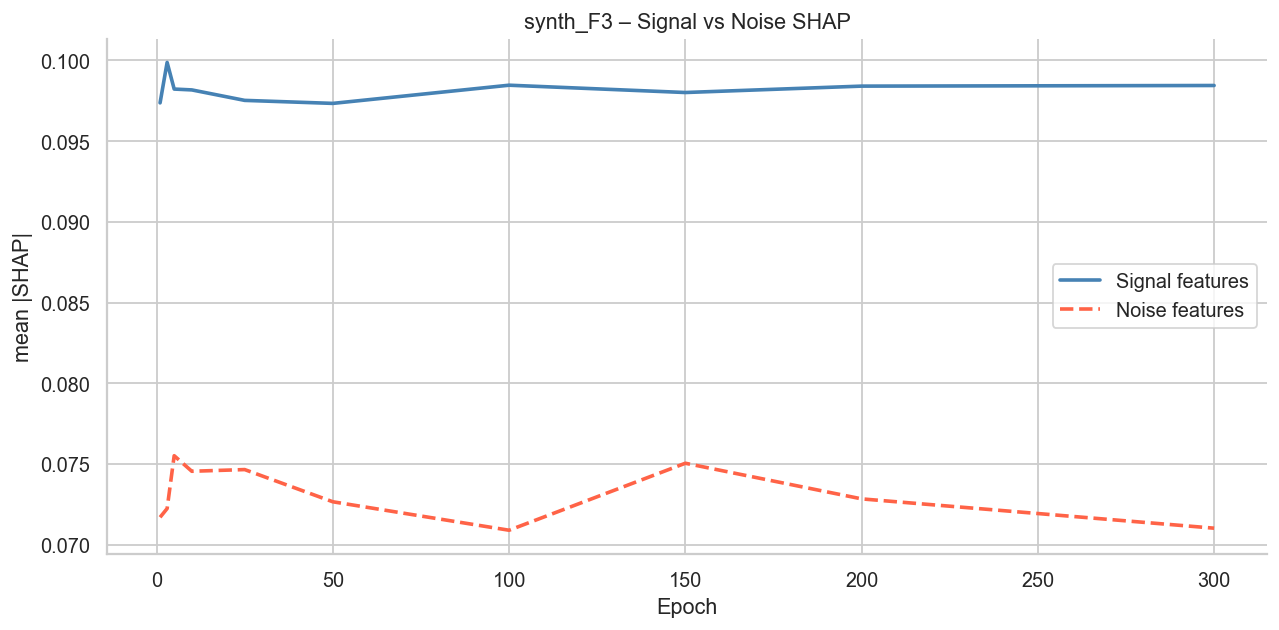
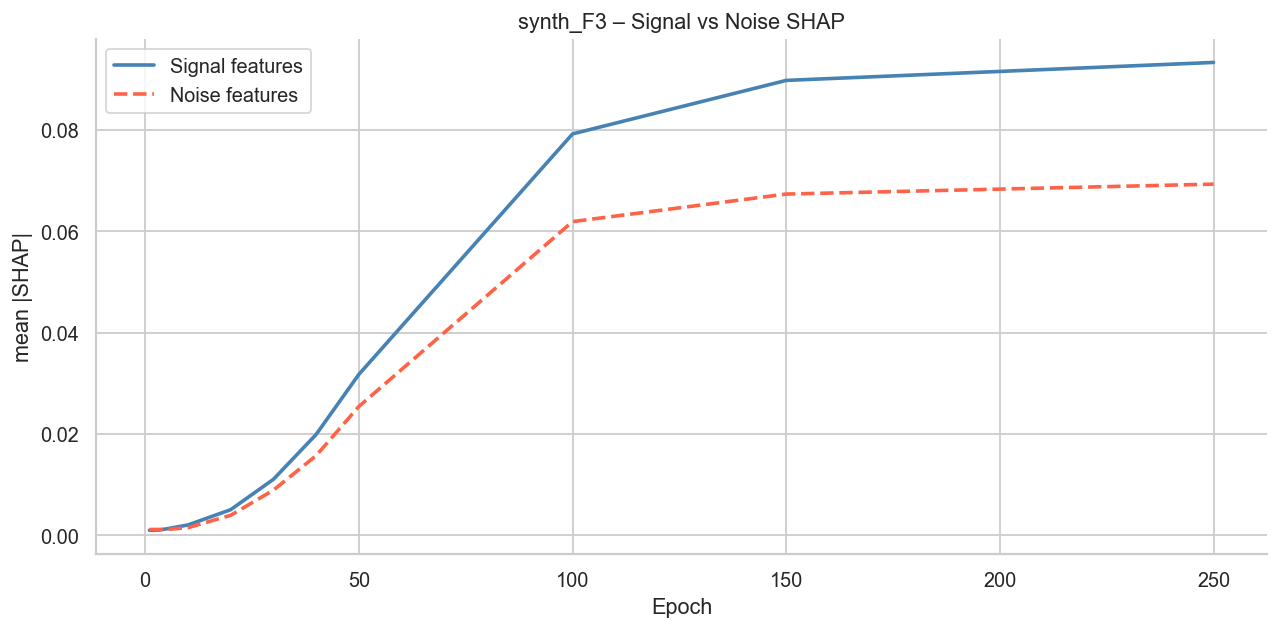
Adjust config for slow learning: reduce samples, lower LR, disable regularization, increase capacity

diff --git a/code_shap_analysis.py b/code_shap_analysis.py
@@ -4,6 +4,7 @@ import os
 import time
 import warnings
 from dataclasses import dataclass
+from itertools import combinations
 from pathlib import Path
 from typing import Optional
 
@@ -49,9 +50,9 @@ SYNTH_FUNC_IDX    = 3
 NUM_SAMPLES       = 1_500
 SEED              = 42
 
-SNAPSHOT_EPOCHS   = [1, 3, 5, 10, 25, 50, 100, 150, 200, 300]
-INTERACTION_EPOCHS = [10, 150, 300]
-TOTAL_EPOCHS      = 300
+SNAPSHOT_EPOCHS   = [1, 3, 5, 10, 20, 30, 40, 50, 100, 150, 250]
+INTERACTION_EPOCHS = [10, 25, 50]
+TOTAL_EPOCHS      = 250
 BATCH_SIZE        = 128
 LR                = 1e-4
 N_SHAP_BG         = 80    # KernelExplainer background rows
@@ -70,6 +71,7 @@ FEATURE_COLS:    list[str] = []
 SIGNAL_FEATURES: list[str] = []
 NOISE_FEATURES:  list[str] = []
 GT_PAIRS:        list[tuple[str, str]] = []
+CONTRAST_PAIRS:  list[tuple[str, str, str]] = []   # (f1, f2, label) where label ∈ {signal, cross, noise}
 
 _T0 = time.perf_counter()
 def _elapsed() -> str:
@@ -181,7 +183,7 @@ def _derive_feature_metadata(ground_truth: dict, n_features: int) -> None:
     Populate the module-level FEATURE_COLS, SIGNAL_FEATURES, NOISE_FEATURES,
     and GT_PAIRS from synth.py's ground_truth dict.
     """
-    global FEATURE_COLS, SIGNAL_FEATURES, NOISE_FEATURES, GT_PAIRS
+    global FEATURE_COLS, SIGNAL_FEATURES, NOISE_FEATURES, GT_PAIRS, CONTRAST_PAIRS
 
     FEATURE_COLS = [f"x{i}" for i in range(n_features)]
 
@@ -196,6 +198,25 @@ def _derive_feature_metadata(ground_truth: dict, n_features: int) -> None:
     # GT_PAIRS: take the pairwise ground-truth tuples (0-indexed ints → name strings)
     GT_PAIRS = [(FEATURE_COLS[a], FEATURE_COLS[b])
                 for (a, b) in ground_truth["pairwise"]]
+
+    # CONTRAST_PAIRS: GT (signal×signal) + signal×noise + noise×noise
+    # Each entry is (f1, f2, category_label)
+    CONTRAST_PAIRS = [(f1, f2, "signal") for f1, f2 in GT_PAIRS]
+
+    # Add up to 2 signal×noise cross pairs
+    cross_pairs = []
+    for sf in SIGNAL_FEATURES:
+        for nf in NOISE_FEATURES:
+            cross_pairs.append((sf, nf))
+            if len(cross_pairs) >= 2:
+                break
+        if len(cross_pairs) >= 2:
+            break
+    CONTRAST_PAIRS += [(f1, f2, "cross") for f1, f2 in cross_pairs]
+
+    # Add up to 2 noise×noise pairs
+    noise_combos = list(combinations(NOISE_FEATURES, 2))[:2]
+    CONTRAST_PAIRS += [(f1, f2, "noise") for f1, f2 in noise_combos]
 
 
 def load_synth_data(
@@ -611,53 +632,57 @@ def plot_interaction_proxy_heatmaps(
     print(f"  saved: {fname}")
 
 
-# ── 6f  Interaction evolution line plot (ground-truth pairs) ──────────────────
+# ── 6f  Interaction evolution line plot (contrast pairs) ─────────────────────
+_PAIR_STYLE = {
+    "signal": dict(color="#2ca02c", marker="o", linewidth=2.5, linestyle="-"),
+    "cross":  dict(color="#ff7f0e", marker="s", linewidth=2.0, linestyle="--"),
+    "noise":  dict(color="#d62728", marker="^", linewidth=2.0, linestyle=":"),
+}
+
 def plot_interaction_evolution(
     snaps: list[Snapshot],
     X_ex_raw: np.ndarray,
     model_label: str = "model",
 ) -> None:
     """
-    For each ground-truth pair, track the proxy interaction strength
-    across SHAP snapshot epochs (using |corr(SHAP_f1, X_f2)|).
-    Uses the same metric as compute_interaction_proxy.
+    Track interaction proxy |corr(SHAP_f1, X_f2)| across epochs for
+    three categories of feature pairs:
+      • signal (GT pairs)  – should spike early and stay high
+      • cross  (signal×noise) – should stay low, may creep up with overfitting
+      • noise  (noise×noise)  – should stay near zero, grows late if overfitting
+    All curves on one axis for a clear contrast.
     """
-    n_pairs = len(GT_PAIRS)
-    if n_pairs == 0:
-        print("  [warn] no GT_PAIRS defined, skipping interaction evolution.")
+    if not CONTRAST_PAIRS:
+        print("  [warn] no CONTRAST_PAIRS, skipping interaction evolution.")
         return
 
-    rows = int(np.ceil(n_pairs / 2))
-    cols = min(n_pairs, 2)
-    fig, axes = plt.subplots(rows, cols, figsize=(7 * cols, 4 * rows),
-                              sharex=True, squeeze=False)
+    shap_snaps = [s for s in snaps if s.shap_values is not None]
+    if not shap_snaps:
+        print("  [warn] no SHAP snapshots, skipping interaction evolution.")
+        return
 
-    for idx, (f1, f2) in enumerate(GT_PAIRS):
+    epochs = [s.epoch for s in shap_snaps]
+
+    fig, ax = plt.subplots(figsize=(12, 5))
+
+    for f1, f2, cat in CONTRAST_PAIRS:
         i1 = FEATURE_COLS.index(f1)
         i2 = FEATURE_COLS.index(f2)
 
-        shap_snaps = [s for s in snaps if s.shap_values is not None]
-        epochs  = [s.epoch for s in shap_snaps]
         proxies = []
         for s in shap_snaps:
-            c = np.corrcoef(s.shap_values[:, i1],
-                            X_ex_raw[:, i2])[0, 1]
+            c = np.corrcoef(s.shap_values[:, i1], X_ex_raw[:, i2])[0, 1]
             proxies.append(abs(c) if np.isfinite(c) else 0.0)
 
-        r, c = divmod(idx, cols)
-        ax = axes[r][c]
-        ax.plot(epochs, proxies, marker="o", linewidth=2)
-        ax.set_title(f"{f1} × {f2}")
-        ax.set_ylabel("|corr(SHAP_i, X_j)|")
-        ax.set_xlabel("Epoch")
-        ax.set_ylim(0, 1)
+        style = _PAIR_STYLE[cat]
+        ax.plot(epochs, proxies, label=f"{f1}×{f2} [{cat}]", **style)
 
-    # Hide unused axes
-    for idx in range(n_pairs, rows * cols):
-        r, c = divmod(idx, cols)
-        axes[r][c].set_visible(False)
-
-    fig.suptitle(f"{model_label} – Interaction proxy evolution", fontsize=13, y=1.02)
+    ax.set_xlabel("Epoch", fontsize=11)
+    ax.set_ylabel("|corr(SHAP_i, X_j)|  (interaction proxy)", fontsize=11)
+    ax.set_ylim(0, 1)
+    ax.legend(loc="upper left", fontsize=9, framealpha=0.9)
+    ax.set_title(f"{model_label} – Interaction proxy evolution  "
+                 "(signal vs cross vs noise pairs)", fontsize=13)
     plt.tight_layout()
     plt.savefig(OUTPUT_DIR / "06_interaction_evolution.png", dpi=DPI, bbox_inches="tight")
     plt.close(fig)
@@ -673,9 +698,11 @@ def plot_interaction_classification(
     model_label: str,
 ) -> None:
     """
-    For each GT pair: classify interaction type (crossover / modifier / symmetric)
-    using the LAST snapshot, then plot conditional 1-D PDPs (feature1 PDP
-    conditioned on feature2 low vs high).
+    For each *contrast* pair (signal, cross, noise): classify interaction type
+    (crossover / modifier / symmetric) using the LAST snapshot, then plot
+    SHAP scatter + conditional 1-D PDP.
+    Signal pairs should show clear interaction; noise pairs should show
+    false-positive interactions only when overfitting.
     """
     last_shap = next(
         (s for s in reversed(snaps) if s.shap_values is not None), None
@@ -684,18 +711,26 @@ def plot_interaction_classification(
         print("  [warn] no SHAP snapshots, skipping interaction classification.")
         return
 
+    pairs = CONTRAST_PAIRS if CONTRAST_PAIRS else [(f1, f2, "signal") for f1, f2 in GT_PAIRS]
+    n_pairs = len(pairs)
+    if n_pairs == 0:
+        print("  [warn] no pairs for interaction classification.")
+        return
+
     X_pdp = X_va_df.sample(min(PDP_SUBSAMPLE, len(X_va_df)), random_state=42)
 
-    n_pairs = len(GT_PAIRS)
-    fig, axes = plt.subplots(n_pairs, 2, figsize=(14, 5 * n_pairs))
+    fig, axes = plt.subplots(n_pairs, 2, figsize=(14, 5 * n_pairs),
+                              squeeze=False)
 
-    for row, (f1, f2) in enumerate(GT_PAIRS):
+    cat_colours = {"signal": "#2ca02c", "cross": "#ff7f0e", "noise": "#d62728"}
+
+    for row, (f1, f2, cat) in enumerate(pairs):
+        i1 = FEATURE_COLS.index(f1)
         i2 = FEATURE_COLS.index(f2)
         itype = classify_interaction(last_shap.shap_values, X_ex_raw, f1, f2)
 
         # ── left panel: SHAP scatter coloured by f2 ──────────────────────────
         ax_l = axes[row][0]
-        i1   = FEATURE_COLS.index(f1)
         sc   = ax_l.scatter(
             X_ex_raw[:, i1],
             last_shap.shap_values[:, i1],
@@ -705,7 +740,9 @@ def plot_interaction_classification(
         fig.colorbar(sc, ax=ax_l, label=f2)
         ax_l.axhline(0, color="k", lw=0.8, linestyle="--")
         ax_l.set_xlabel(f1); ax_l.set_ylabel(f"SHAP({f1})")
-        ax_l.set_title(f"[{itype.upper()}]  {f1} (colour = {f2})")
+        badge = cat.upper()
+        ax_l.set_title(f"[{badge} · {itype.upper()}]  {f1} (colour = {f2})",
+                       color=cat_colours.get(cat, "k"))
 
         # ── right panel: conditioned 1-D PDP ─────────────────────────────────
         ax_r   = axes[row][1]
@@ -715,9 +752,6 @@ def plot_interaction_classification(
 
         f1_idx = FEATURE_COLS.index(f1)
 
-        # Build a shared grid from the FULL X_pdp so both curves span
-        # the same x-axis range (fixes missing blue line when the low
-        # subset has a narrower range than the high subset).
         full_col = X_pdp.iloc[:, f1_idx].values
         shared_grid = np.linspace(
             np.percentile(full_col, 2),
@@ -730,23 +764,23 @@ def plot_interaction_classification(
             (X_high, "tomato",    f"{f2} high"),
         ]:
             if len(subset) > 10:
-                # Evaluate model on shared grid, varying f1 only
-                tile = np.tile(subset.values, (len(shared_grid), 1, 1))  # (G, N, F)
+                tile = np.tile(subset.values, (len(shared_grid), 1, 1))
                 tile[:, :, f1_idx] = shared_grid[:, None]
                 G, N, F = tile.shape
                 flat = tile.reshape(G * N, F)
                 proba = wrapper.predict_proba(flat)[:, 1].reshape(G, N)
-                pdp_vals = proba.mean(axis=1)          # average over N
+                pdp_vals = proba.mean(axis=1)
                 ax_r.plot(
                     shared_grid, pdp_vals,
                     color=colour, linewidth=2, label=lbl,
                 )
         ax_r.set_xlabel(f1)
         ax_r.set_ylabel("Partial dependence")
-        ax_r.set_title(f"PDP of {f1} | {f2} split  [{itype}]")
+        ax_r.set_title(f"PDP of {f1} | {f2} split  [{badge} · {itype}]",
+                       color=cat_colours.get(cat, "k"))
         ax_r.legend()
 
-    fig.suptitle(f"{model_label} – Interaction classification + conditional PDPs",
+    fig.suptitle(f"{model_label} – Interaction classification (signal vs cross vs noise)",
                  fontsize=13, y=1.01)
     plt.tight_layout()
     fname = f"07_interaction_classification_{model_label}.png"
